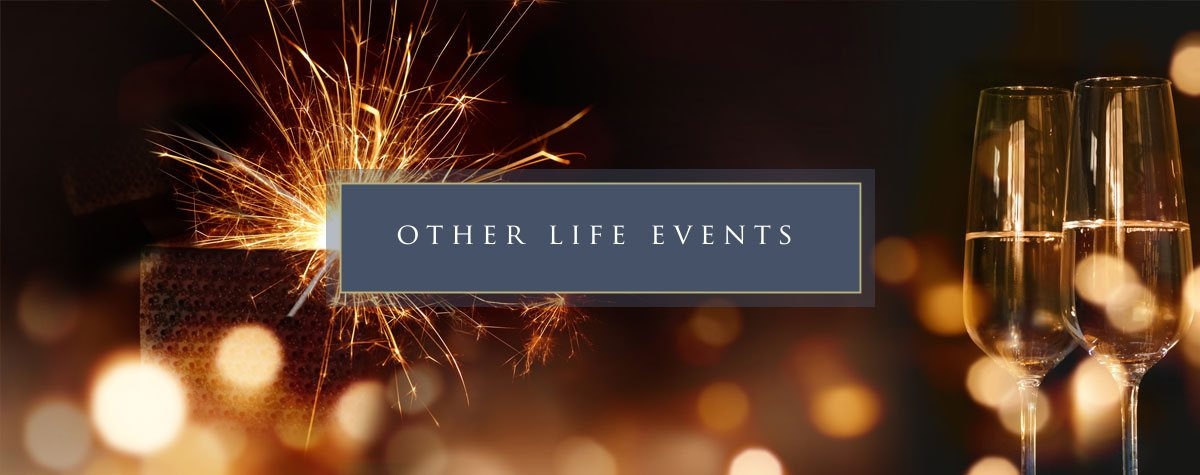
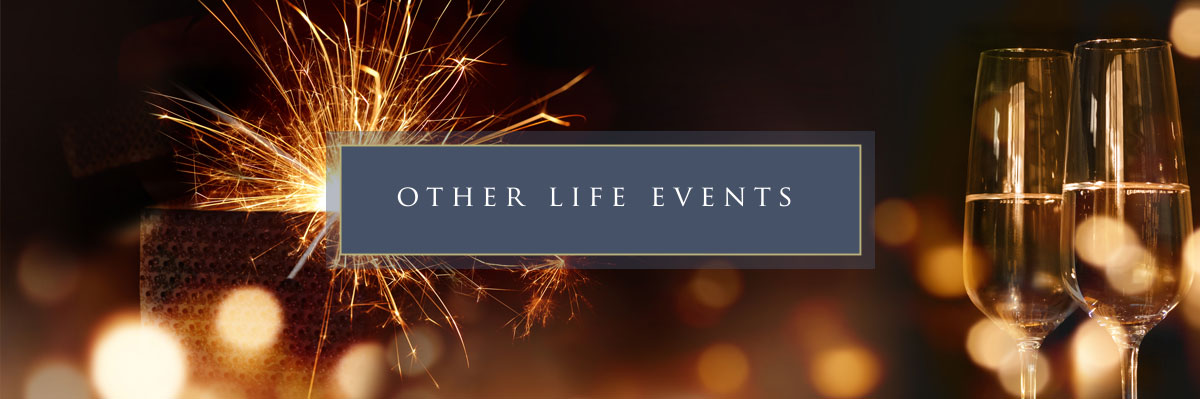
slider updates

diff --git a/_sass/_services.scss b/_sass/_services.scss
@@ -110,7 +110,7 @@
       margin: 0px;
       color: white;
       text-transform: uppercase;
-      font-weight: 400;
+      font-weight: 200;
       font-size: 3.6vw;
       letter-spacing: 4px;
     }
